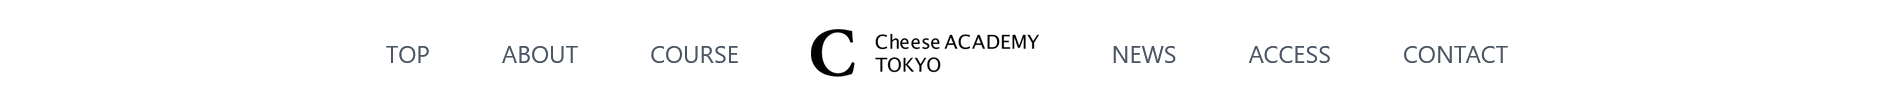
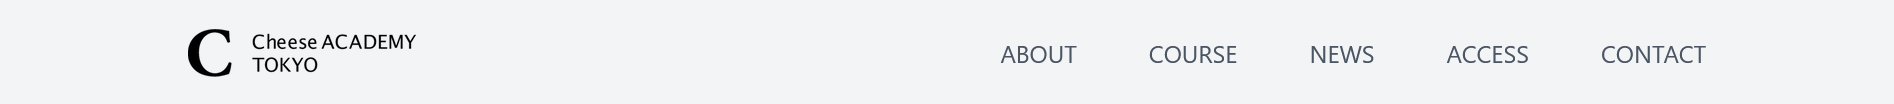
finished

Changed region(s): [[0.3427, 0.2596, 0.8099, 0.7212], [0.0935, 0.2885, 0.3115, 0.75], [0.8411, 0.4327, 0.9034, 0.6058]]

diff --git a/index2.html b/index2.html
@@ -38,6 +38,41 @@
 
         <!-- header2 -->
         <header class="text-gray-600 body-font">
+            <div class="container w-10/12 mx-auto p-5">
+                <nav class="flex flex-wrap items-center text-base justify-center gap-x-12 gap-y-0">
+                    <a class="hover:text-gray-900">TOP</a>
+                    <a class="hover:text-gray-900">ABOUT</a>
+                    <a class="hover:text-gray-900">COURSE</a>
+                    <a class="flex items-center mb-4 md:mb-0"><img class="h-12 md:h-8 " src="img/header_logo.png" alt=""></a>
+                    <a class="hover:text-gray-900">NEWS</a>
+                    <a class="hover:text-gray-900">ACCESS</a>
+                    <a class="hover:text-gray-900">CONTACT</a>
+                </nav>
+            </div>
+        </header>
+        <!-- /header -->
+
+
+        <!-- header3 -->
+        <header class="bg-gray-100 text-gray-600 body-font">
+            <div class="container w-10/12 mx-auto flex flex-wrap p-5 flex-col md:flex-row items-center">
+                <a class="flex items-center mb-4 md:mb-0">
+                    <img class="h-12 md:h-8 " src="img/header_logo.png" alt="">
+                </a>
+                <nav class="md:ml-auto flex flex-wrap items-center text-base justify-center gap-x-12 gap-y-0">
+                    <a class="hover:text-gray-900">ABOUT</a>
+                    <a class="hover:text-gray-900">COURSE</a>
+                    <a class="hover:text-gray-900">NEWS</a>
+                    <a class="hover:text-gray-900">ACCESS</a>
+                    <a class="hover:text-gray-900">CONTACT</a>
+                </nav>
+            </div>
+        </header>
+        <!-- /header -->
+
+
+        <!-- header4 -->
+        <header class="bg-gray-100 text-gray-600 body-font">
             <div class="container w-10/12 mx-auto flex flex-wrap p-5 flex-col md:flex-row items-center">
                 <nav class="md:mr-auto flex flex-wrap items-center text-base justify-center gap-x-12 gap-y-0">
                     <a class="hover:text-gray-900">ABOUT</a>
@@ -54,24 +89,7 @@
         <!-- /header -->
 
 
-        <!-- header3 -->
-        <header class="text-gray-600 body-font">
-            <div class="container w-10/12 mx-auto p-5">
-                <nav class="flex flex-wrap items-center text-base justify-center gap-x-12 gap-y-0">
-                    <a class="hover:text-gray-900">TOP</a>
-                    <a class="hover:text-gray-900">ABOUT</a>
-                    <a class="hover:text-gray-900">COURSE</a>
-                    <a class="flex items-center mb-4 md:mb-0"><img class="h-12 md:h-8 " src="img/header_logo.png" alt=""></a>
-                    <a class="hover:text-gray-900">NEWS</a>
-                    <a class="hover:text-gray-900">ACCESS</a>
-                    <a class="hover:text-gray-900">CONTACT</a>
-                </nav>
-            </div>
-        </header>
-        <!-- /header -->
-
-
-        <!-- header4 -->
+        <!-- header5 -->
         <header class="bg-gray-900 text-white body-font">
             <div class="container w-10/12 mx-auto flex flex-wrap p-5 flex-col md:flex-row items-center">
                 <a class="flex items-center mb-4 mr-16 md:mb-0">
@@ -89,7 +107,7 @@
         <!-- /header -->
 
 
-        <!-- header5 -->
+        <!-- header6 -->
         <header class="bg-gray-900 text-white  body-font">
             <div class="container w-10/12 mx-auto flex justify-end flex-wrap p-5 flex-col md:flex-row items-center">
                 <nav class="flex flex-wrap items-center text-base justify-center gap-x-12 gap-y-0">
@@ -102,22 +120,6 @@
                 <a class="flex items-center mb-4 md:mb-0">
                     <img class="h-12 ml-16 md:h-8 " src="img/header_logo_white.png" alt="">
                 </a>
-            </div>
-        </header>
-        <!-- /header -->
-
-        <!-- header6 -->
-        <header class="bg-gray-900 text-white body-font">
-            <div class="container w-10/12 mx-auto p-5">
-                <nav class="flex flex-wrap items-center text-base justify-center gap-x-12 gap-y-0">
-                    <a class="hover:text-gray-300">TOP</a>
-                    <a class="hover:text-gray-300">ABOUT</a>
-                    <a class="hover:text-gray-300">COURSE</a>
-                    <a class="flex items-center mb-4 md:mb-0"><img class="h-12 md:h-8 " src="img/header_logo_white.png" alt=""></a>
-                    <a class="hover:text-gray-300">NEWS</a>
-                    <a class="hover:text-gray-300">ACCESS</a>
-                    <a class="hover:text-gray-300">CONTACT</a>
-                </nav>
             </div>
         </header>
         <!-- /header -->
@@ -770,6 +772,18 @@
                 <div class="container mx-auto py-4 px-5">
                     <p class="text-gray-500 text-sm text-center">copyrights 2016 —
                         <a href="#" rel="noopener noreferrer" class="text-gray-600 ml-1">Cheeese Academy Tokyo</a> All RIghts Reserved.
+                    </p>
+                </div>
+            </div>
+        </footer>
+        <!-- /footer -->
+
+        <!-- footer2 -->
+        <footer class="footer">
+            <div class="bg-gray-900">
+                <div class="container mx-auto py-4 px-5">
+                    <p class="text-white text-sm text-center">copyrights 2016 —
+                        <a href="#" rel="noopener noreferrer" class="text-white ml-1">Cheeese Academy Tokyo</a> All RIghts Reserved.
                     </p>
                 </div>
             </div>

diff --git a/index.html b/index.html
@@ -141,13 +141,13 @@
                          alt=""
                          class="border border-gray-300 cursor-move hover:shadow hover:border-black" />
                 </figure>
-                <figure class="js-snippet p-2 st-navigation" id="navigation-3">
+                <figure class="js-snippet p-2 st-navigation" id="navigation-5">
                     <img
                          src="./images/navigation-5.png"
                          alt=""
                          class="border border-gray-300 cursor-move hover:shadow hover:border-black" />
                 </figure>
-                <figure class="js-snippet p-2 st-navigation" id="navigation-4">
+                <figure class="js-snippet p-2 st-navigation" id="navigation-6">
                     <img
                          src="./images/navigation-6.png"
                          alt=""
@@ -246,6 +246,12 @@
                 <figure class="js-snippet p-2 st-footer" id="footer-1">
                     <img
                          src="./images/footer-1.png"
+                         alt=""
+                         class="border border-gray-300 cursor-move hover:shadow hover:border-black" />
+                </figure>
+                <figure class="js-snippet p-2 st-footer" id="footer-2">
+                    <img
+                         src="./images/footer-2.png"
                          alt=""
                          class="border border-gray-300 cursor-move hover:shadow hover:border-black" />
                 </figure>

diff --git a/templates/footer-2.html b/templates/footer-2.html
@@ -1,14 +1,11 @@
-<footer class="font-sans bg-black text-white py-8 px-4">
-  <div class="mx-auto max-w-xl overflow-hidden flex justify-between items-center">
-    <ul class="text-sm text-gray-700 list-none p-0 flex items-center">
-      <li> <a href="/" class="block mr-4 w-32">
-          <img src="https://stitches.hyperyolo.com/images/logo-white.png" class="" alt="logo">
-        </a></li>
-      <li><a href="#" class="inline-block py-2 px-3 text-gray-500 hover:text-gray-400 no-underline">Product</a></li>
-      <li><a href="#" class="inline-block py-2 px-3 text-gray-500 hover:text-gray-400 no-underline">Company</a></li>
-      <li><a href="#" class="inline-block py-2 px-3 text-gray-500 hover:text-gray-400 no-underline">FAQs</a></li>
-      <li><a href="#" class="inline-block py-2 px-3 text-gray-500 hover:text-gray-400 no-underline">About Us</a></li>
-    </ul>
-    <p class="inline-block py-2 px-3 text-gray-700 text-xs"> ©2019 Hyperyolo. All rights reserved.</p>
+<!-- footer2 -->
+<footer class="footer">
+  <div class="bg-gray-900">
+    <div class="container mx-auto py-4 px-5">
+      <p class="text-white text-sm text-center">copyrights 2016 —
+        <a href="#" rel="noopener noreferrer" class="text-white ml-1">Cheeese Academy Tokyo</a> All RIghts Reserved.
+      </p>
+    </div>
   </div>
 </footer>
+<!-- /footer -->

diff --git a/templates/navigation-4.html b/templates/navigation-4.html
@@ -1,16 +1,16 @@
 <!-- header4 -->
-<header class="bg-gray-900 text-white body-font">
+<header class="bg-gray-100 text-gray-600 body-font">
   <div class="container w-10/12 mx-auto flex flex-wrap p-5 flex-col md:flex-row items-center">
-    <a class="flex items-center mb-4 mr-16 md:mb-0">
-      <img class="h-12 md:h-8 " src="https://masahiro111.github.io/html_masahiro_T60/img/header_logo_white.png" alt="">
-    </a>
-    <nav class="flex flex-wrap items-center text-base justify-center gap-x-12 gap-y-0">
-      <a class="hover:text-gray-300">ABOUT</a>
-      <a class="hover:text-gray-300">COURSE</a>
-      <a class="hover:text-gray-300">NEWS</a>
-      <a class="hover:text-gray-300">ACCESS</a>
-      <a class="hover:text-gray-300">CONTACT</a>
+    <nav class="md:mr-auto flex flex-wrap items-center text-base justify-center gap-x-12 gap-y-0">
+      <a class="hover:text-gray-900">ABOUT</a>
+      <a class="hover:text-gray-900">COURSE</a>
+      <a class="hover:text-gray-900">NEWS</a>
+      <a class="hover:text-gray-900">ACCESS</a>
+      <a class="hover:text-gray-900">CONTACT</a>
     </nav>
+    <a class="flex items-center mb-4 md:mb-0">
+      <img class="h-12 md:h-8 " src="https://masahiro111.github.io/html_masahiro_T60/img/header_logo.png" alt="">
+    </a>
   </div>
 </header>
 <!-- /header -->

diff --git a/templates/navigation-3.html b/templates/navigation-3.html
@@ -1,13 +1,12 @@
 <!-- header3 -->
-<header class="text-gray-600 body-font">
-  <div class="container w-10/12 mx-auto p-5">
-    <nav class="flex flex-wrap items-center text-base justify-center gap-x-12 gap-y-0">
-      <a class="hover:text-gray-900">TOP</a>
+<header class="bg-gray-100 text-gray-600 body-font">
+  <div class="container w-10/12 mx-auto flex flex-wrap p-5 flex-col md:flex-row items-center">
+    <a class="flex items-center mb-4 md:mb-0">
+      <img class="h-12 md:h-8 " src="https://masahiro111.github.io/html_masahiro_T60/img/header_logo.png" alt="">
+    </a>
+    <nav class="md:ml-auto flex flex-wrap items-center text-base justify-center gap-x-12 gap-y-0">
       <a class="hover:text-gray-900">ABOUT</a>
       <a class="hover:text-gray-900">COURSE</a>
-      <a class="flex items-center mb-4 md:mb-0">
-        <img class="h-12 md:h-8 " src="https://masahiro111.github.io/html_masahiro_T60/img/header_logo.png" alt="">
-      </a>
       <a class="hover:text-gray-900">NEWS</a>
       <a class="hover:text-gray-900">ACCESS</a>
       <a class="hover:text-gray-900">CONTACT</a>

diff --git a/templates/navigation-2.html b/templates/navigation-2.html
@@ -1,16 +1,15 @@
 <!-- header2 -->
 <header class="text-gray-600 body-font">
-  <div class="container w-10/12 mx-auto flex flex-wrap p-5 flex-col md:flex-row items-center">
-    <nav class="md:mr-auto flex flex-wrap items-center text-base justify-center gap-x-12 gap-y-0">
+  <div class="container w-10/12 mx-auto p-5">
+    <nav class="flex flex-wrap items-center text-base justify-center gap-x-12 gap-y-0">
+      <a class="hover:text-gray-900">TOP</a>
       <a class="hover:text-gray-900">ABOUT</a>
       <a class="hover:text-gray-900">COURSE</a>
+      <a class="flex items-center mb-4 md:mb-0"><img class="h-12 md:h-8 " src="https://masahiro111.github.io/html_masahiro_T60/img/header_logo.png" alt=""></a>
       <a class="hover:text-gray-900">NEWS</a>
       <a class="hover:text-gray-900">ACCESS</a>
       <a class="hover:text-gray-900">CONTACT</a>
     </nav>
-    <a class="flex items-center mb-4 md:mb-0">
-      <img class="h-12 md:h-8 " src="https://masahiro111.github.io/html_masahiro_T60/img/header_logo.png" alt="">
-    </a>
   </div>
 </header>
 <!-- /header -->

diff --git a/templates/navigation-5.html b/templates/navigation-5.html
@@ -1,6 +1,9 @@
 <!-- header5 -->
-<header class="bg-gray-900 text-white  body-font">
-  <div class="container w-10/12 mx-auto flex justify-end flex-wrap p-5 flex-col md:flex-row items-center">
+<header class="bg-gray-900 text-white body-font">
+  <div class="container w-10/12 mx-auto flex flex-wrap p-5 flex-col md:flex-row items-center">
+    <a class="flex items-center mb-4 mr-16 md:mb-0">
+      <img class="h-12 md:h-8 " src="https://masahiro111.github.io/html_masahiro_T60/img/header_logo_white.png" alt="">
+    </a>
     <nav class="flex flex-wrap items-center text-base justify-center gap-x-12 gap-y-0">
       <a class="hover:text-gray-300">ABOUT</a>
       <a class="hover:text-gray-300">COURSE</a>
@@ -8,9 +11,6 @@
       <a class="hover:text-gray-300">ACCESS</a>
       <a class="hover:text-gray-300">CONTACT</a>
     </nav>
-    <a class="flex items-center mb-4 md:mb-0">
-      <img class="h-12 ml-16 md:h-8 " src="https://masahiro111.github.io/html_masahiro_T60/img/header_logo_white.png" alt="">
-    </a>
   </div>
 </header>
 <!-- /header -->

diff --git a/templates/navigation-6.html b/templates/navigation-6.html
@@ -1,15 +1,16 @@
 <!-- header6 -->
-<header class="bg-gray-900 text-white body-font">
-  <div class="container w-10/12 mx-auto p-5">
+<header class="bg-gray-900 text-white  body-font">
+  <div class="container w-10/12 mx-auto flex justify-end flex-wrap p-5 flex-col md:flex-row items-center">
     <nav class="flex flex-wrap items-center text-base justify-center gap-x-12 gap-y-0">
-      <a class="hover:text-gray-300">TOP</a>
       <a class="hover:text-gray-300">ABOUT</a>
       <a class="hover:text-gray-300">COURSE</a>
-      <a class="flex items-center mb-4 md:mb-0"><img class="h-12 md:h-8 " src="img/header_logo_white.png" alt=""></a>
       <a class="hover:text-gray-300">NEWS</a>
       <a class="hover:text-gray-300">ACCESS</a>
       <a class="hover:text-gray-300">CONTACT</a>
     </nav>
+    <a class="flex items-center mb-4 md:mb-0">
+      <img class="h-12 ml-16 md:h-8 " src="https://masahiro111.github.io/html_masahiro_T60/img/header_logo_white.png" alt="">
+    </a>
   </div>
 </header>
 <!-- /header -->
